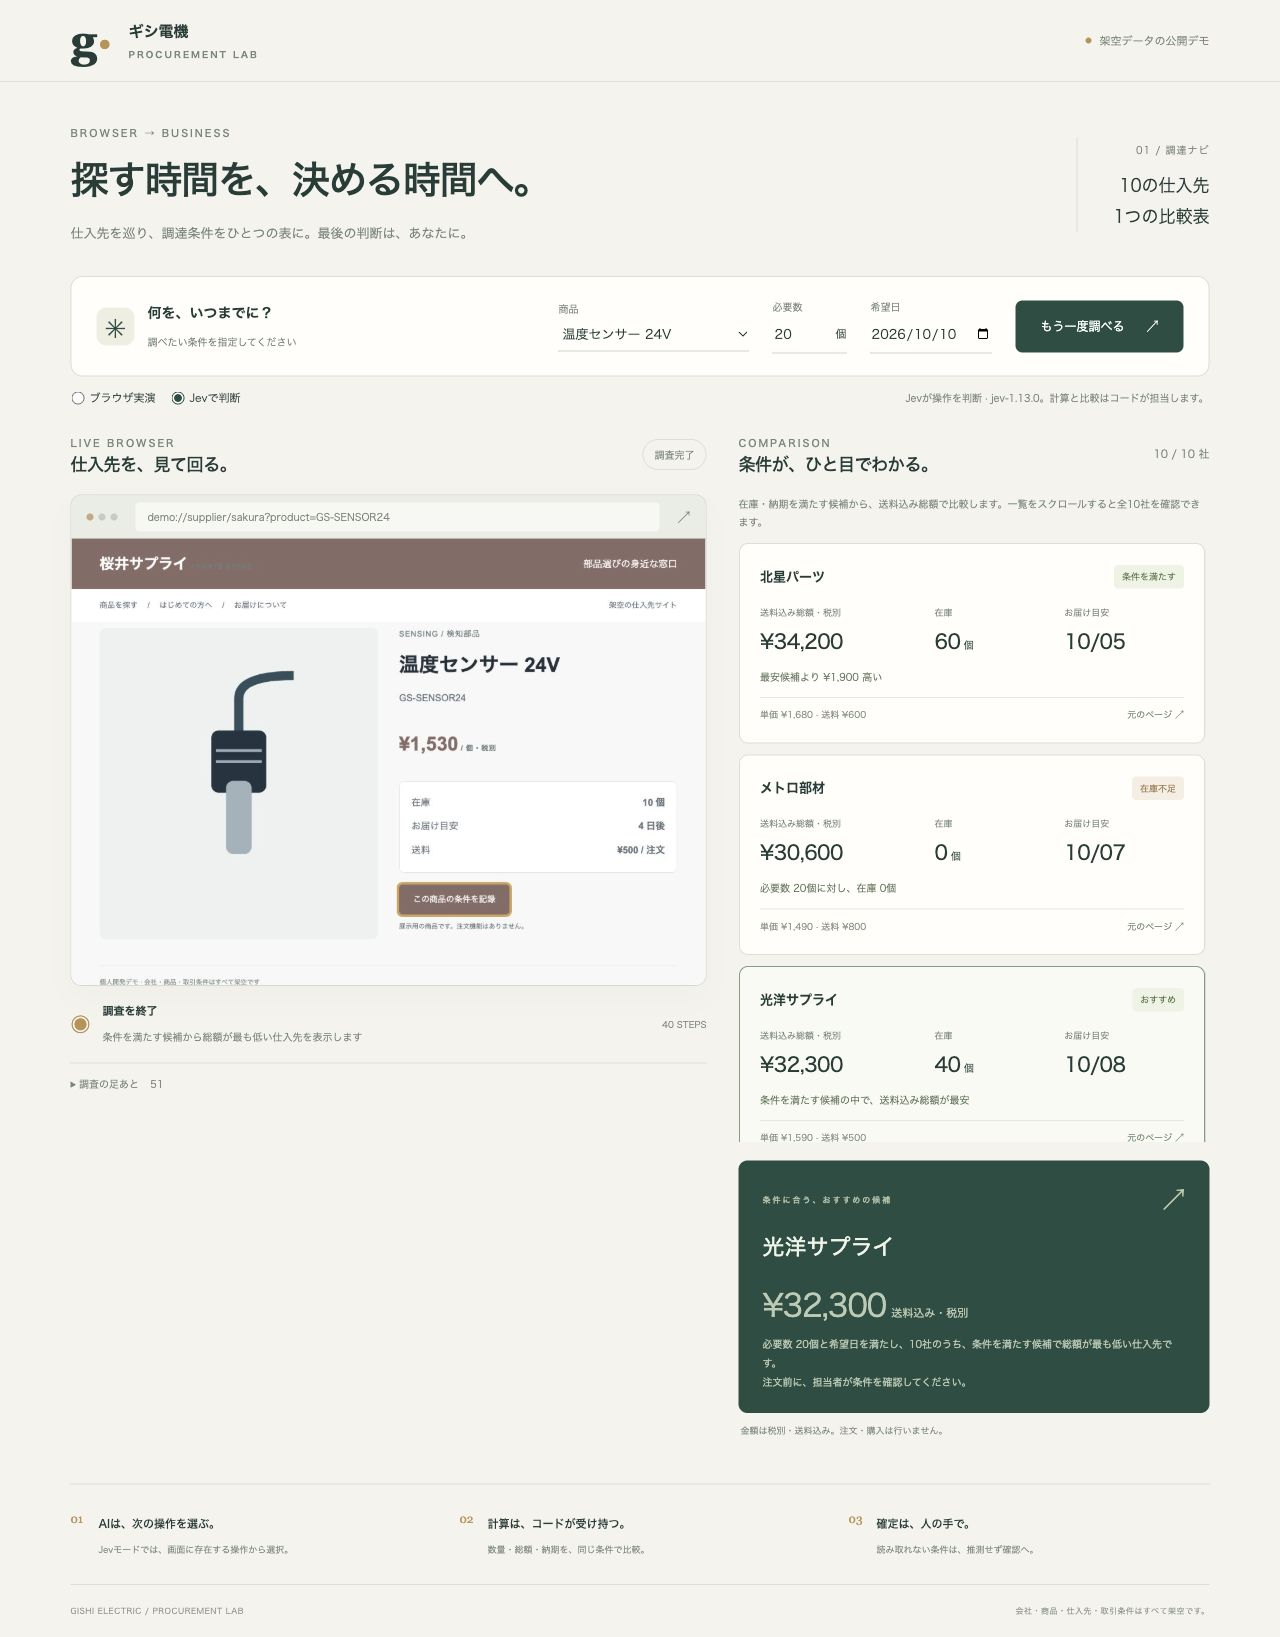
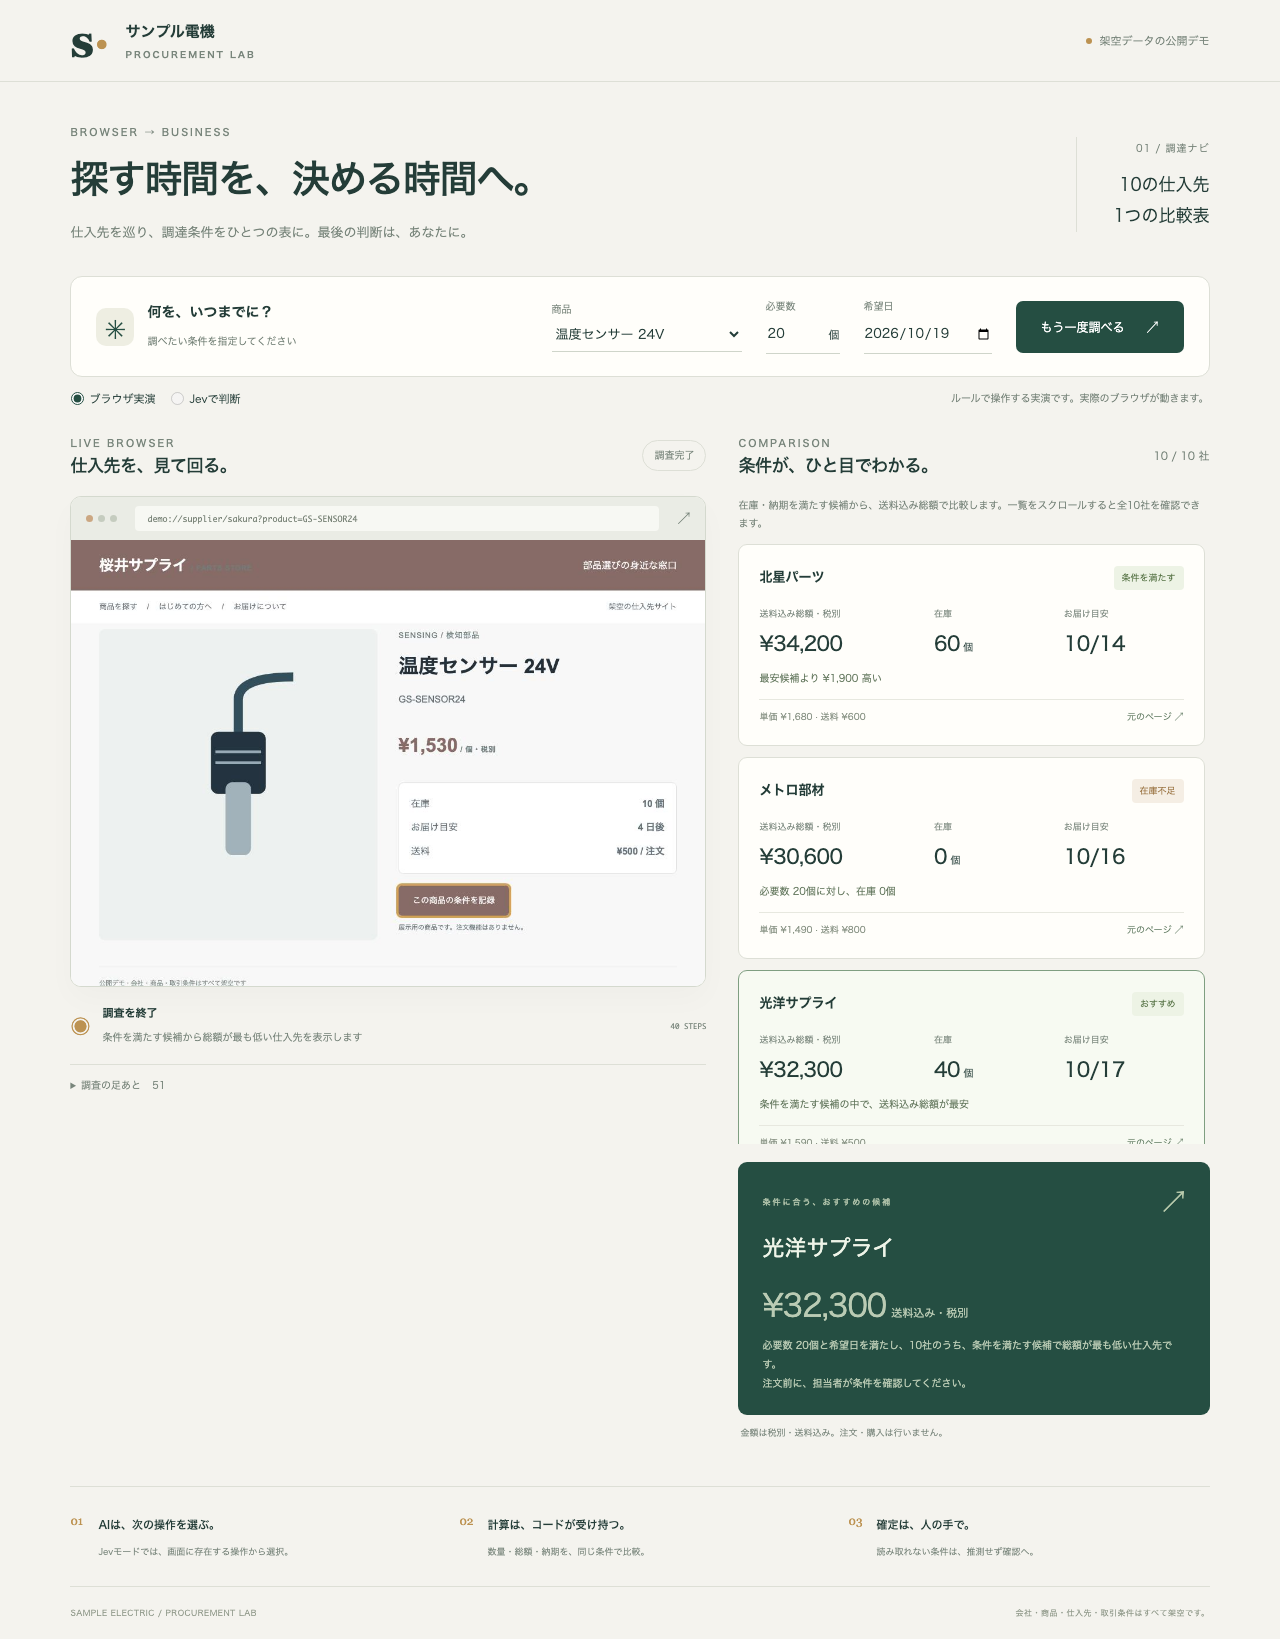
架空の会社名を「サンプル電機」にし、表記を「公開デモ」にそろえる

diff --git a/static/index.html b/static/index.html
@@ -1,8 +1,8 @@
 <!doctype html>
 <html lang="ja">
-<head><meta charset="utf-8"><meta name="viewport" content="width=device-width, initial-scale=1"><title>調達ナビ | ギシ電機</title><link rel="stylesheet" href="/static/style.css"></head>
+<head><meta charset="utf-8"><meta name="viewport" content="width=device-width, initial-scale=1"><title>調達ナビ | サンプル電機</title><link rel="stylesheet" href="/static/style.css"></head>
 <body>
-<header class="topbar"><a class="logo" href="/">g<span>·</span></a><div class="brand">ギシ電機 <span>PROCUREMENT LAB</span></div><div class="demo-tag"><i></i> 架空データの公開デモ</div></header>
+<header class="topbar"><a class="logo" href="/">s<span>·</span></a><div class="brand">サンプル電機 <span>PROCUREMENT LAB</span></div><div class="demo-tag"><i></i> 架空データの公開デモ</div></header>
 <main>
 <section class="intro"><div><p class="eyebrow">BROWSER → BUSINESS</p><h1>探す時間を、<br class="mobile">決める時間へ。</h1><p class="subtitle">仕入先を巡り、調達条件をひとつの表に。最後の判断は、あなたに。</p></div><div class="intro-aside"><span>01 / 調達ナビ</span><p><span id="supplier-total">10の仕入先</span><br>1つの比較表</p></div></section>
 <form id="goal" class="goal-panel"><div class="goal-title"><span class="spark">✳</span><div><b>何を、いつまでに？</b><span>調べたい条件を指定してください</span></div></div><label>商品<select id="sku" aria-label="商品"></select></label><label class="qty">必要数<div class="number-field"><input id="quantity" type="number" value="20" min="1" max="1000" required aria-label="必要数"><span>個</span></div></label><label>希望日<input id="deadline" type="date" required aria-label="希望日"></label><button class="primary" id="start" type="submit">仕入先を調べる <span>↗</span></button></form>
@@ -15,5 +15,5 @@
 </div><div class="comparison-column"><div class="panel-heading"><div><span class="eyebrow">COMPARISON</span><h2>条件が、ひと目でわかる。</h2></div><span class="count" id="count">0 / 10 社</span></div><p class="comparison-guide" id="comparison-guide">在庫・納期を満たす候補から、送料込み総額で比較します。</p><div class="offer-list" id="offers"></div>
 <div class="recommendation" id="recommendation"><div class="recommendation-top"><span class="eyebrow">YOUR NEXT DECISION</span><span>↗</span></div><h3>候補が揃ったら、<br>比較して決める。</h3><p>必要数と希望日を満たす仕入先から、<br>送料込みの総額が最も低い候補を示します。</p></div><p class="price-note">金額は税別・送料込み。注文・購入は行いません。</p></div></section>
 <section class="principles"><div><span>01</span><b>AIは、次の操作を選ぶ。</b><p>Jevモードでは、画面に存在する操作から選択。</p></div><div><span>02</span><b>計算は、コードが受け持つ。</b><p>数量・総額・納期を、同じ条件で比較。</p></div><div><span>03</span><b>確定は、人の手で。</b><p>読み取れない条件は、推測せず確認へ。</p></div></section>
-<footer><span>GISHI ELECTRIC / PROCUREMENT LAB</span><span>会社・商品・仕入先・取引条件はすべて架空です。</span></footer>
+<footer><span>SAMPLE ELECTRIC / PROCUREMENT LAB</span><span>会社・商品・仕入先・取引条件はすべて架空です。</span></footer>
 </main><script src="/static/app.js"></script></body></html>

diff --git a/app.py b/app.py
@@ -416,7 +416,7 @@ async def supplier_page(supplier_id: str, q: str = "", product: str = ""):
     </style><header><div class="brand">{s["name"]} <small> / PARTS STORE</small></div><span>{s["tag"]}</span></header>
     <nav><span>商品を探す　 /　 はじめての方へ　 /　 お届けについて</span><span>架空の仕入先サイト</span></nav>
     {"" if item else f'<form><input data-action="fill:search" name="q" aria-label="検索欄に型番を入力" placeholder="型番・商品名から探す" value="{html.escape(q, quote=True)}"><button data-action="click:search">検索</button></form>'}
-    <main>{content}</main><footer>個人開発デモ · 会社・商品・取引条件はすべて架空です</footer></html>"""
+    <main>{content}</main><footer>公開デモ · 会社・商品・取引条件はすべて架空です</footer></html>"""
 
 
 def part_svg(sku):

diff --git a/README.md b/README.md
@@ -2,7 +2,7 @@
 
 **仕入先を巡り、在庫・価格・納期をひとつの比較表へ。**
 
-架空の家電メーカー「ギシ電機」の調達担当向けに作った、個人開発のデモです。
+架空の家電メーカー「サンプル電機」の調達担当向けに作った、公開デモです。
 型番・必要数・希望日を指定すると、実際のブラウザが架空の仕入先10社を開き、
 検索と商品詳細の確認を進めます。ブラウザ画面と比較結果を並べて見られます。
 
